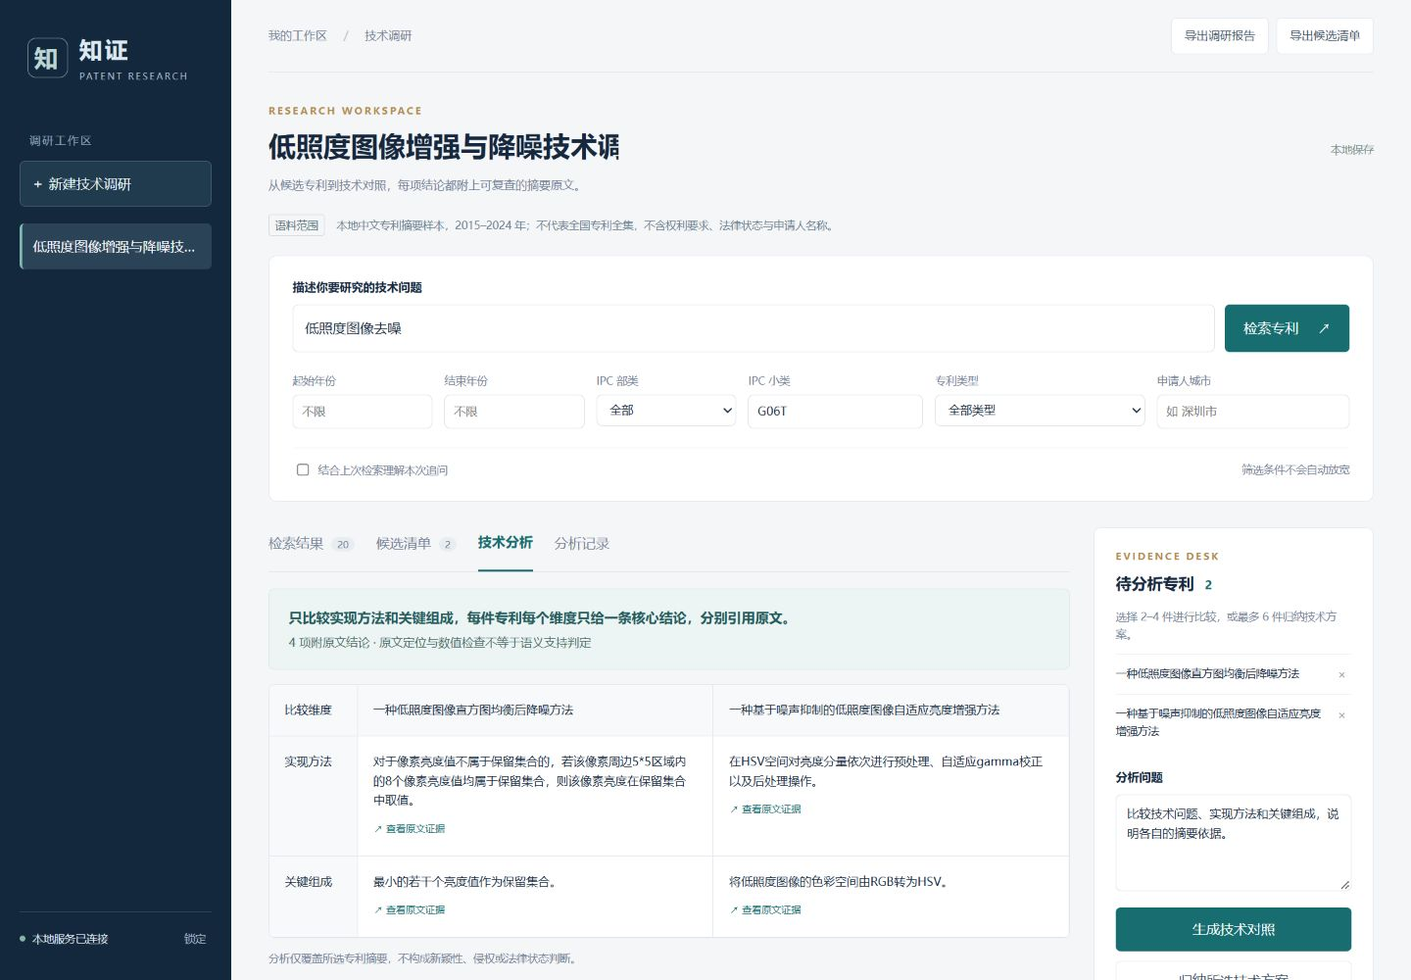
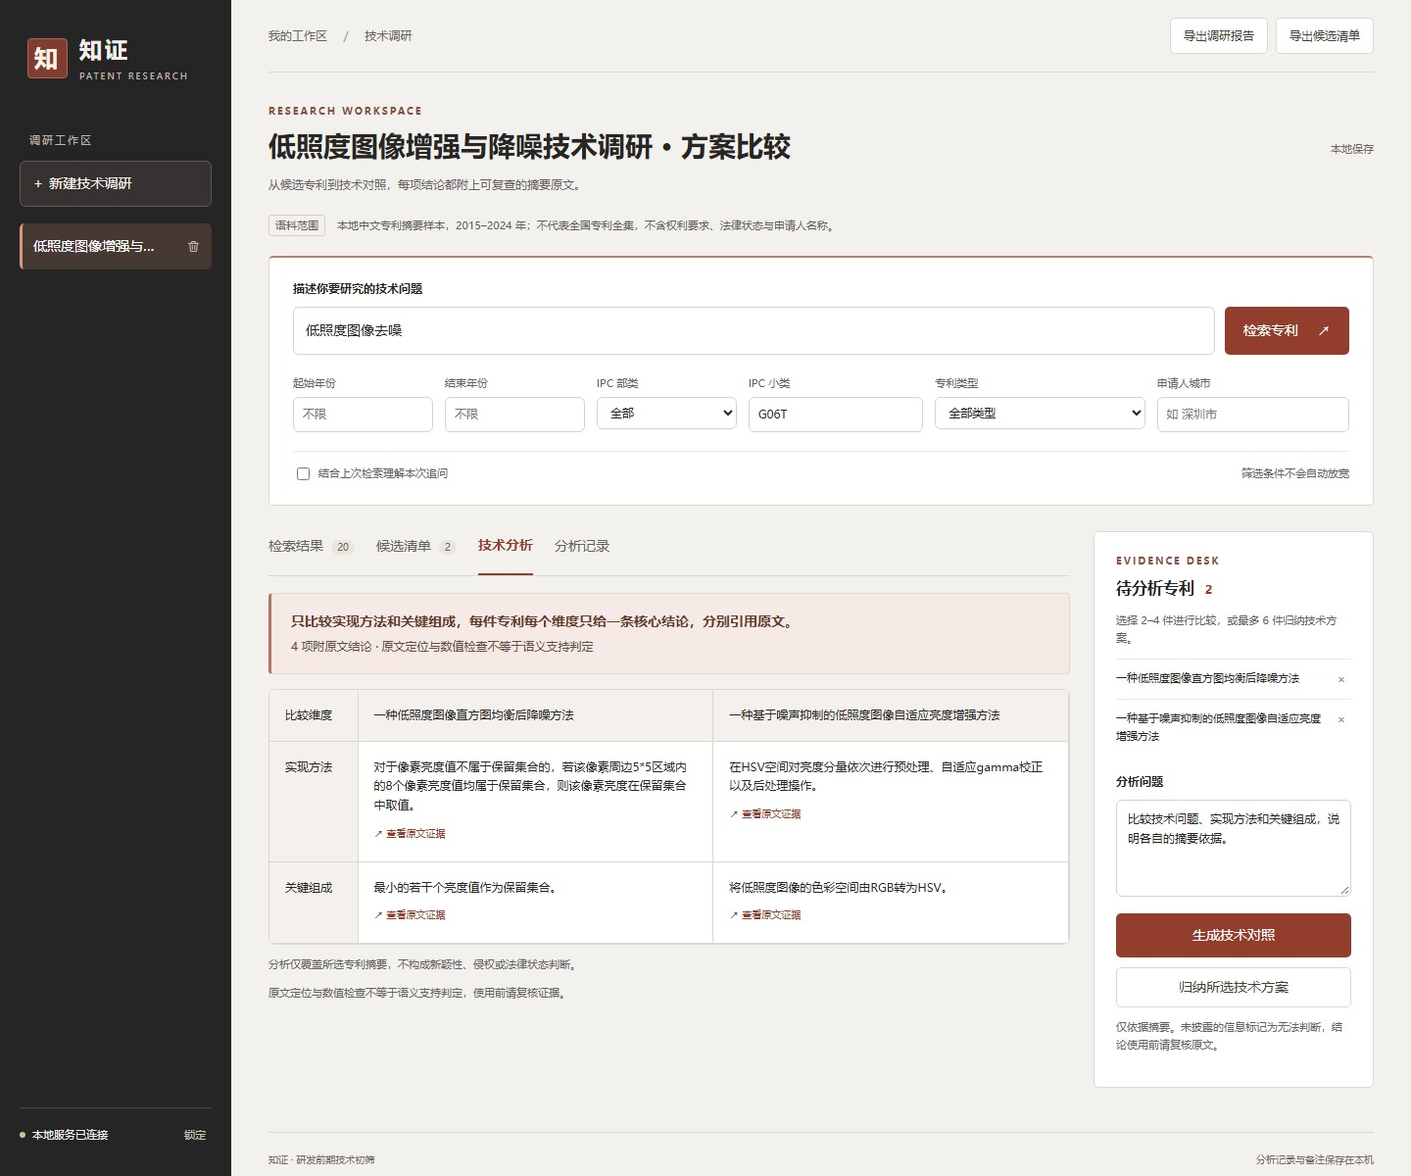
Refresh workbench colors and interface screenshot

diff --git a/app/src/main/resources/static/app.css b/app/src/main/resources/static/app.css
@@ -1,3 +1,183 @@
-:root{--bg:#f5f6f8;--paper:#fff;--ink:#17283e;--muted:#708095;--line:#e1e6ee;--navy:#14283d;--teal:#176d70;--soft:#edf5f4;--gold:#b38c4d;--danger:#b34d3e}*{box-sizing:border-box}body{margin:0;background:var(--bg);color:var(--ink);font:14px/1.65 "Microsoft YaHei UI","PingFang SC",system-ui,sans-serif}button,input,select,textarea{font:inherit}button{cursor:pointer;border:0;transition:background .15s}button:disabled{opacity:.5;cursor:wait}input,select,textarea{border:1px solid #d9e0e8;border-radius:6px;padding:9px 11px;color:var(--ink);background:white;min-width:0}input:focus,textarea:focus,select:focus{outline:2px solid #a9cecd;outline-offset:1px}button:focus-visible{outline:2px solid var(--teal);outline-offset:3px}.sidebar{position:fixed;inset:0 auto 0 0;width:236px;background:var(--navy);color:#dfe8f0;padding:32px 20px;display:flex;flex-direction:column}.brand{display:flex;align-items:center;gap:12px;font-size:23px;font-weight:600;letter-spacing:3px;margin:0 8px 48px}.brand small{display:block;font:9px/1.8 system-ui;letter-spacing:2px;color:#a4b7c7}.brand-symbol{height:41px;width:41px;border:1px solid #7c9b9f;border-radius:9px;text-align:center;line-height:39px;font-size:24px;color:#bcd5d4}.sidebar-caption{font-size:11px;color:#8ca4b8;margin:0 10px 12px;letter-spacing:2px}.new-study{border:1px solid #496173;color:#eaf4f3;background:#213b4e;padding:11px;border-radius:6px;text-align:left;margin-bottom:17px}#studies{overflow:auto;flex:1}.study-link{display:block;width:100%;text-align:left;padding:12px 11px;background:transparent;color:#b7c7d4;border-radius:5px;margin-bottom:4px;white-space:nowrap;overflow:hidden;text-overflow:ellipsis}.study-link.active{color:white;background:#2b4357;border-left:3px solid #80b8b4}.sidebar-bottom{border-top:1px solid #354a5d;padding-top:17px;font-size:11px;display:flex;align-items:center;gap:7px}.live-dot{width:6px;height:6px;background:#86b4a5;border-radius:50%}.text-button{margin-left:auto;background:none;color:#a9bdcb;font-size:11px}main{margin-left:236px;padding:0 38px;max-width:1800px}.topbar{height:74px;display:flex;justify-content:space-between;align-items:center;border-bottom:1px solid var(--line);font-size:12px;color:var(--muted);gap:12px}.slash{margin:0 13px;color:#bdc5ce}.top-actions{display:flex;gap:8px}.quiet{background:#fff;border:1px solid var(--line);padding:8px 13px;border-radius:5px;color:#40536a}.quiet:hover{background:#edf3f6}.heading{display:flex;align-items:center;justify-content:space-between;padding:32px 0 20px;gap:16px}.eyebrow{font:10px/1.5 system-ui;letter-spacing:2px;color:var(--gold);font-weight:600}#study-title{font-size:28px;font-weight:600;border:0;background:transparent;padding:5px 0;width:min(100%,780px);border-radius:0}.heading p{color:var(--muted);margin:2px 0 0;font-size:12px}.save-status{white-space:nowrap;font-size:11px;color:#789087}.scope{display:flex;gap:12px;align-items:baseline;font-size:11px;color:#687c8e;margin-bottom:20px}.scope-label{border:1px solid #cbd7dd;color:#53707a;border-radius:3px;padding:1px 6px;white-space:nowrap}.search-panel{background:var(--paper);border:1px solid var(--line);border-radius:9px;padding:22px 24px}.field-label{display:block;font-size:12px;font-weight:600;margin-bottom:8px}.search-line{display:flex;gap:10px}.search-line input{flex:1;padding:12px;font-size:14px}.primary{background:var(--teal);color:white;border-radius:5px;padding:11px 19px;font-weight:500;white-space:nowrap}.primary:hover{background:#11585b}.primary span{margin-left:15px}.filters{display:grid;grid-template-columns:.8fr .8fr .8fr 1fr 1.2fr 1.1fr;gap:12px;margin-top:20px}.filters label{font-size:11px;color:var(--muted)}.filters input,.filters select{display:block;width:100%;margin-top:5px;font-size:12px;padding:7px 9px}.search-footer{display:flex;justify-content:space-between;gap:12px;border-top:1px solid #edf0f4;margin-top:19px;padding-top:13px;font-size:11px;color:var(--muted)}.check-label{display:flex;align-items:center;gap:6px}.check-label input{accent-color:var(--teal)}.work-area{display:grid;grid-template-columns:minmax(0,1fr) 286px;gap:24px;margin-top:26px}.tabs{display:flex;gap:22px;border-bottom:1px solid var(--line);height:46px}.tabs button{background:transparent;color:var(--muted);padding:0 0 13px;white-space:nowrap}.tabs button.active{color:var(--teal);border-bottom:2px solid var(--teal);font-weight:600}.tabs span{font-size:10px;background:#e8edf1;border-radius:10px;padding:1px 6px;margin-left:4px}.tab-panel{padding-top:17px}.empty{padding:56px 25px;text-align:center;border:1px dashed #d7dfe7;border-radius:8px;background:#fafbfc;color:var(--muted)}.empty-icon{font-size:30px;color:#a6b7c1;margin-bottom:12px}.empty h3{font-size:15px;color:#536b7c;font-weight:500;margin:3px 0}.empty p{font-size:12px;margin:5px 0}.patent-card{padding:20px;background:white;border:1px solid var(--line);border-radius:7px;margin-bottom:12px}.card-top{display:flex;align-items:flex-start;gap:10px}.card-top input{accent-color:var(--teal);margin-top:6px;width:15px;height:15px;flex-shrink:0}.patent-title{font-size:15px;font-weight:600;background:none;text-align:left;color:var(--ink);padding:0;line-height:1.6}.patent-title:hover{color:var(--teal)}.card-meta{display:flex;flex-wrap:wrap;gap:6px;margin-top:8px;font-size:10px;color:var(--muted)}.tag{background:#f1f4f7;padding:2px 6px;border-radius:3px}.card-abstract{font-size:12px;line-height:1.9;color:#53677b;margin:13px 0 12px}.card-bottom{display:flex;justify-content:space-between;align-items:center;color:#8b98a6;font-size:10px}.link-button{background:none;color:var(--teal);padding:3px 0;font-size:11px}.similar{margin:0 0 12px 18px;font-size:11px;color:var(--muted)}.similar summary{cursor:pointer;padding:8px}.selection-panel{align-self:start;position:sticky;top:20px;background:#fff;border:1px solid var(--line);border-radius:8px;padding:22px}.selection-panel h2{font-size:16px;margin:7px 0}.selection-panel h2 span{font-size:12px;color:var(--teal);margin-left:6px}.muted{color:var(--muted)}.small{font-size:11px}.selection-panel>p{font-size:11px}.selection-item{font-size:11px;padding:10px 0;border-top:1px solid #edf0f3;display:flex;align-items:flex-start;gap:8px}.selection-item span{flex:1}.selection-item button{background:none;color:#8b9aa8}.selection-panel textarea{width:100%;font-size:12px;resize:vertical}.selection-panel .field-label{margin-top:18px}.wide{width:100%;margin-top:10px}.job-status{margin-top:15px;border-radius:5px;background:var(--soft);font-size:12px;color:var(--teal);padding:10px}.danger{background:#fff5f2;color:var(--danger);border:1px solid #eed6cf;padding:8px;border-radius:5px}.notice{padding:12px 16px;border:1px solid #e6d9ba;background:#fffaf0;color:#8d6a31;border-radius:5px;margin-top:16px;font-size:12px}.analysis-header{padding:17px 20px;background:var(--soft);border:1px solid #d9e7e4;border-radius:6px;margin-bottom:15px;font-size:12px;color:#456863}.analysis-header strong{display:block;font-size:14px;color:#245b5d;margin-bottom:4px}.analysis-table-wrap{overflow:auto;background:white;border:1px solid var(--line);border-radius:7px}.analysis-table{border-collapse:collapse;width:100%;font-size:12px;table-layout:fixed;min-width:560px}.analysis-table th,.analysis-table td{border-bottom:1px solid var(--line);border-right:1px solid var(--line);padding:16px;vertical-align:top;text-align:left}.analysis-table th{background:#f7f9fa;font-weight:500}.analysis-table th:first-child{width:90px}.analysis-table td p{margin:0 0 8px}.evidence-link{display:block;background:none;color:var(--teal);font-size:10px;text-align:left;padding:3px 0}.review{padding:15px;background:#fff9f0;border:1px solid #ecdfca;border-radius:6px;margin-top:15px;font-size:12px}.review summary{cursor:pointer;color:#976b36}.review p{padding-top:10px;border-top:1px solid #efdfc6}.note-input{width:100%;margin-top:10px;font-size:12px;resize:vertical}.history-item{background:white;border:1px solid var(--line);border-radius:6px;padding:17px;margin-bottom:10px}.history-item h3{font-size:13px;margin:0 0 7px;font-weight:500}.history-item p{font-size:11px;color:var(--muted);margin:0 0 7px}footer{display:flex;justify-content:space-between;border-top:1px solid var(--line);margin-top:45px;padding:20px 0 26px;font-size:10px;color:#8c9aa7}.hidden{display:none!important}dialog{border:1px solid var(--line);border-radius:10px;color:var(--ink);box-shadow:0 20px 90px #14283d25;padding:30px;max-width:720px;width:calc(100% - 40px)}dialog::backdrop{background:#152b3f70}#access-dialog{max-width:440px}dialog h2{font-size:22px;margin:12px 0}dialog p{font-size:12px;color:var(--muted)}#access-token{width:100%}.form-error{font-size:12px;color:var(--danger);margin-top:12px}.dialog-toolbar{display:flex;align-items:center;justify-content:space-between;color:var(--muted);font-size:12px;margin-bottom:24px}.original-abstract{white-space:pre-wrap;font-size:14px;line-height:2;color:#3f5368;background:#f7f9fb;border:1px solid var(--line);padding:20px;border-radius:6px}.quote{border-left:3px solid #83aaa7;padding:8px 14px;font-size:12px;background:var(--soft);margin:12px 0}.quote small{display:block;color:var(--muted);margin-top:7px}.original-abstract mark{background:#f0e4bb;color:inherit}.busy{opacity:.65;pointer-events:none}@media(min-width:1600px){main{padding:0 54px}.work-area{grid-template-columns:minmax(0,1fr) 320px}}@media(max-width:1150px){.sidebar{width:200px;padding:25px 14px}main{margin-left:200px;padding:0 24px}.work-area{grid-template-columns:minmax(0,1fr) 250px;gap:16px}.filters{grid-template-columns:repeat(3,1fr)}.top-actions .quiet{font-size:11px;padding:7px 9px}.tabs{gap:15px}}@media(max-width:850px){.sidebar{position:static;width:auto;padding:17px 20px;display:block}.brand{font-size:19px;margin:0}.brand-symbol{width:33px;height:33px;line-height:31px;font-size:20px}.brand small,.sidebar-caption,.sidebar-bottom{display:none}.new-study{position:absolute;right:20px;top:19px;padding:7px 12px;margin:0}#studies{display:flex;gap:4px;margin-top:12px}.study-link{width:auto;max-width:170px;padding:7px 10px;font-size:11px;margin:0}main{margin:0;padding:0 18px}.topbar{height:58px}.heading{padding-top:22px}#study-title{font-size:23px}.scope{font-size:10px}.search-panel{padding:17px}.search-footer{flex-direction:column;gap:8px}.work-area{grid-template-columns:1fr}.selection-panel{position:static;grid-row:1}.selection-panel>.muted{margin:4px 0}.selection-panel #selection{display:flex;flex-wrap:wrap;gap:8px}.selection-item{max-width:47%;border:0;padding:5px 0}.selection-panel textarea{min-height:60px}.topbar>span{display:none}.top-actions{margin-left:auto}.filters{gap:9px}.search-line{flex-direction:column}.search-line button{text-align:center}.tabs{justify-content:space-between;gap:8px;font-size:12px}footer{gap:10px}.heading p{font-size:11px}.save-status{display:none}}
-.content-column{min-width:0;max-width:100%}.analysis-table-wrap{max-width:100%}@media(max-width:850px){.work-area{grid-template-columns:minmax(0,1fr)}}
-.study-row{display:flex;align-items:center;gap:3px;border-radius:5px;margin-bottom:4px}.study-row.active{background:#2b4357;border-left:3px solid #80b8b4}.study-row .study-link{flex:1;min-width:0;margin:0;border:0}.study-row.active .study-link{color:#fff}.study-delete{display:flex;align-items:center;justify-content:center;flex-shrink:0;width:30px;height:32px;margin-right:4px;border-radius:4px;background:transparent;color:#a9bdcb;opacity:0}.study-delete svg{width:15px;height:15px;fill:none;stroke:currentColor;stroke-width:1.6;stroke-linecap:round;stroke-linejoin:round}.study-row:hover .study-delete,.study-row:focus-within .study-delete,.study-row.active .study-delete{opacity:1}.study-delete:hover{color:#ffcdc6;background:#653c3c}.sidebar-empty{font-size:11px;color:#9db0c1;padding:8px 10px;line-height:1.8}.delete-dialog-actions{display:flex;justify-content:flex-end;gap:10px;margin-top:24px}.delete-confirm{background:#a64134;color:white;border-radius:5px;padding:9px 18px}.delete-confirm:hover{background:#8c3329}#delete-study-dialog{max-width:470px}#delete-study-name{overflow-wrap:anywhere;color:var(--ink)}@media(max-width:850px){.study-row{flex-shrink:0;max-width:220px;margin:0}.study-row .study-link{max-width:174px}.study-delete{opacity:1;margin-right:3px}}
+:root{--bg:#f3f1ed;--paper:#ffffff;--ink:#272625;--muted:#66615c;--line:#dcd7cf;--sidebar:#252525;--accent:#933e2d;--soft:#f5eae5;--label:#875044;--danger:#a02e32}
+*{box-sizing:border-box}
+body{margin:0;background:var(--bg);color:var(--ink);font:14px/1.65 "Microsoft YaHei UI","PingFang SC",system-ui,sans-serif}
+button,input,select,textarea{font:inherit}
+button{cursor:pointer;border:0;transition:background .15s}
+button:disabled{opacity:.5;cursor:wait}
+input,select,textarea{border:1px solid #d7d1c9;border-radius:6px;padding:9px 11px;color:var(--ink);background:white;min-width:0}
+input:focus,textarea:focus,select:focus{outline:2px solid #bb6e5a;outline-offset:1px}
+button:focus-visible{outline:2px solid var(--accent);outline-offset:3px}
+.sidebar{position:fixed;inset:0 auto 0 0;width:236px;background:var(--sidebar);color:#f4efea;padding:32px 20px;display:flex;flex-direction:column}
+.brand{display:flex;align-items:center;gap:12px;font-size:23px;font-weight:600;letter-spacing:3px;margin:0 8px 48px}
+.brand small{display:block;font:9px/1.8 system-ui;letter-spacing:2px;color:#c3bab4}
+.brand-symbol{height:41px;width:41px;background:#7f3c2f;border:1px solid #aa6553;border-radius:4px;text-align:center;line-height:39px;font-size:24px;color:#fff2e9}
+.sidebar-caption{font-size:11px;color:#bfb5af;margin:0 10px 12px;letter-spacing:2px}
+.new-study{border:1px solid #645953;color:#f9f2ec;background:#363231;padding:11px;border-radius:6px;text-align:left;margin-bottom:17px}
+#studies{overflow:auto;flex:1}
+.study-link{display:block;width:100%;text-align:left;padding:12px 11px;background:transparent;color:#d2c9c2;border-radius:5px;margin-bottom:4px;white-space:nowrap;overflow:hidden;text-overflow:ellipsis}
+.study-link.active{color:white;background:#463832;border-left:3px solid #db967d}
+.sidebar-bottom{border-top:1px solid #504843;padding-top:17px;font-size:11px;display:flex;align-items:center;gap:7px}
+.live-dot{width:6px;height:6px;background:#d3bb99;border-radius:50%}
+.text-button{margin-left:auto;background:none;color:#cfc4bb;font-size:11px}
+main{margin-left:236px;padding:0 38px;max-width:1800px}
+.topbar{height:74px;display:flex;justify-content:space-between;align-items:center;border-bottom:1px solid var(--line);font-size:12px;color:var(--muted);gap:12px}
+.slash{margin:0 13px;color:#a39a91}
+.top-actions{display:flex;gap:8px}
+.quiet{background:#ffffff;border:1px solid var(--line);padding:8px 13px;border-radius:5px;color:#493d36}
+.quiet:hover{background:#f1ede7}
+.heading{display:flex;align-items:center;justify-content:space-between;padding:32px 0 20px;gap:16px}
+.heading>div{flex:1;min-width:0}
+.eyebrow{font:10px/1.5 system-ui;letter-spacing:2px;color:var(--label);font-weight:600}
+#study-title{font-size:28px;font-weight:600;border:0;background:transparent;padding:5px 0;width:min(100%,780px);border-radius:0}
+.heading p{color:var(--muted);margin:2px 0 0;font-size:12px}
+.save-status{white-space:nowrap;font-size:11px;color:#6e655e}
+.scope{display:flex;gap:12px;align-items:baseline;font-size:11px;color:#655d56;margin-bottom:20px}
+.scope-label{border:1px solid #d8cec3;color:#695b50;border-radius:3px;padding:1px 6px;white-space:nowrap}
+.search-panel{background:var(--paper);border:1px solid var(--line);border-top:2px solid #b9806e;border-radius:5px;padding:22px 24px}
+.field-label{display:block;font-size:12px;font-weight:600;margin-bottom:8px}
+.search-line{display:flex;gap:10px}
+.search-line input{flex:1;padding:12px;font-size:14px}
+.primary{background:var(--accent);color:white;border-radius:5px;padding:11px 19px;font-weight:500;white-space:nowrap}
+.primary:hover{background:#773021}
+.primary span{margin-left:15px}
+.filters{display:grid;grid-template-columns:.8fr .8fr .8fr 1fr 1.2fr 1.1fr;gap:12px;margin-top:20px}
+.filters label{font-size:11px;color:var(--muted)}
+.filters input,.filters select{display:block;width:100%;margin-top:5px;font-size:12px;padding:7px 9px}
+.search-footer{display:flex;justify-content:space-between;gap:12px;border-top:1px solid #eee9e2;margin-top:19px;padding-top:13px;font-size:11px;color:var(--muted)}
+.check-label{display:flex;align-items:center;gap:6px}
+.check-label input{accent-color:var(--accent)}
+.work-area{display:grid;grid-template-columns:minmax(0,1fr) 286px;gap:24px;margin-top:26px}
+.tabs{display:flex;gap:22px;border-bottom:1px solid var(--line);height:46px}
+.tabs button{background:transparent;color:var(--muted);padding:0 0 13px;white-space:nowrap}
+.tabs button.active{color:var(--accent);border-bottom:2px solid var(--accent);font-weight:600}
+.tabs span{font-size:10px;background:#ebe5de;border-radius:10px;padding:1px 6px;margin-left:4px}
+.tab-panel{padding-top:17px}
+.empty{padding:56px 25px;text-align:center;border:1px dashed #d9d2c9;border-radius:8px;background:#f8f6f2;color:var(--muted)}
+.empty-icon{font-size:30px;color:#948379;margin-bottom:12px}
+.empty h3{font-size:15px;color:#5d4e45;font-weight:500;margin:3px 0}
+.empty p{font-size:12px;margin:5px 0}
+.patent-card{padding:20px;background:white;border:1px solid var(--line);border-radius:7px;margin-bottom:12px}
+.card-top{display:flex;align-items:flex-start;gap:10px}
+.card-top input{accent-color:var(--accent);margin-top:6px;width:15px;height:15px;flex-shrink:0}
+.patent-title{font-size:15px;font-weight:600;background:none;text-align:left;color:var(--ink);padding:0;line-height:1.6}
+.patent-title:hover{color:var(--accent)}
+.card-meta{display:flex;flex-wrap:wrap;gap:6px;margin-top:8px;font-size:10px;color:var(--muted)}
+.tag{background:#f3efe9;padding:2px 6px;border-radius:3px}
+.card-abstract{font-size:12px;line-height:1.9;color:#564e48;margin:13px 0 12px}
+.card-bottom{display:flex;justify-content:space-between;align-items:center;color:#74695f;font-size:10px}
+.link-button{background:none;color:var(--accent);padding:3px 0;font-size:11px}
+.similar{margin:0 0 12px 18px;font-size:11px;color:var(--muted)}
+.similar summary{cursor:pointer;padding:8px}
+.selection-panel{align-self:start;position:sticky;top:20px;background:#ffffff;border:1px solid var(--line);border-radius:5px;padding:22px}
+.selection-panel h2{font-size:16px;margin:7px 0}
+.selection-panel h2 span{font-size:12px;color:var(--accent);margin-left:6px}
+.muted{color:var(--muted)}
+.small{font-size:11px}
+.selection-panel>p{font-size:11px}
+.selection-item{font-size:11px;padding:10px 0;border-top:1px solid #eee9e3;display:flex;align-items:flex-start;gap:8px}
+.selection-item span{flex:1}
+.selection-item button{background:none;color:#79695f}
+.selection-panel textarea{width:100%;font-size:12px;resize:vertical}
+.selection-panel .field-label{margin-top:18px}
+.wide{width:100%;margin-top:10px}
+.job-status{margin-top:15px;border-radius:5px;background:var(--soft);font-size:12px;color:var(--accent);padding:10px}
+.danger{background:#fff3f2;color:var(--danger);border:1px solid #efd0ce;padding:8px;border-radius:5px}
+.notice{padding:12px 16px;border:1px solid #e8d8b5;background:#fff9ed;color:#745020;border-radius:5px;margin-top:16px;font-size:12px}
+.analysis-header{padding:17px 20px;background:var(--soft);border:1px solid #e8d6ce;border-left:3px solid #b67562;border-radius:4px;margin-bottom:15px;font-size:12px;color:#634b41}
+.analysis-header strong{display:block;font-size:14px;color:#673a2d;margin-bottom:4px}
+.analysis-table-wrap{overflow:auto;background:white;border:1px solid var(--line);border-radius:7px}
+.analysis-table{border-collapse:collapse;width:100%;font-size:12px;table-layout:fixed;min-width:560px}
+.analysis-table th,.analysis-table td{border-bottom:1px solid var(--line);border-right:1px solid var(--line);padding:16px;vertical-align:top;text-align:left}
+.analysis-table th{background:#f4f0eb;font-weight:500}
+.analysis-table th:first-child{width:90px}
+.analysis-table td p{margin:0 0 8px}
+.evidence-link{display:block;background:none;color:var(--accent);font-size:10px;text-align:left;padding:3px 0}
+.review{padding:15px;background:#fff8eb;border:1px solid #eadcc1;border-radius:6px;margin-top:15px;font-size:12px}
+.review summary{cursor:pointer;color:#795423}
+.review p{padding-top:10px;border-top:1px solid #eadac1}
+.note-input{width:100%;margin-top:10px;font-size:12px;resize:vertical}
+.history-item{background:white;border:1px solid var(--line);border-radius:6px;padding:17px;margin-bottom:10px}
+.history-item h3{font-size:13px;margin:0 0 7px;font-weight:500}
+.history-item p{font-size:11px;color:var(--muted);margin:0 0 7px}
+footer{display:flex;justify-content:space-between;border-top:1px solid var(--line);margin-top:45px;padding:20px 0 26px;font-size:10px;color:#746a61}
+.hidden{display:none!important}
+dialog{border:1px solid var(--line);border-radius:10px;color:var(--ink);box-shadow:0 20px 90px #25201c35;padding:30px;max-width:720px;width:calc(100% - 40px)}
+dialog::backdrop{background:#27211e83}
+#access-dialog{max-width:440px}
+dialog h2{font-size:22px;margin:12px 0}
+dialog p{font-size:12px;color:var(--muted)}
+#access-token{width:100%}
+.form-error{font-size:12px;color:var(--danger);margin-top:12px}
+.dialog-toolbar{display:flex;align-items:center;justify-content:space-between;color:var(--muted);font-size:12px;margin-bottom:24px}
+.original-abstract{white-space:pre-wrap;font-size:14px;line-height:2;color:#4c4139;background:#f6f2ec;border:1px solid var(--line);padding:20px;border-radius:6px}
+.quote{border-left:3px solid #b67562;padding:8px 14px;font-size:12px;background:var(--soft);margin:12px 0}
+.quote small{display:block;color:var(--muted);margin-top:7px}
+.original-abstract mark{background:#f5dfad;color:inherit}
+.busy{opacity:.65;pointer-events:none}
+@media(min-width:1600px){
+  main{padding:0 54px}
+  .work-area{grid-template-columns:minmax(0,1fr) 320px}
+}
+@media(max-width:1150px){
+  .sidebar{width:200px;padding:25px 14px}
+  main{margin-left:200px;padding:0 24px}
+  .work-area{grid-template-columns:minmax(0,1fr) 250px;gap:16px}
+  .filters{grid-template-columns:repeat(3,1fr)}
+  .top-actions .quiet{font-size:11px;padding:7px 9px}
+  .tabs{gap:15px}
+}
+@media(max-width:850px){
+  .sidebar{position:static;width:auto;padding:17px 20px;display:block}
+  .brand{font-size:19px;margin:0}
+  .brand-symbol{width:33px;height:33px;line-height:31px;font-size:20px}
+  .brand small,.sidebar-caption,.sidebar-bottom{display:none}
+  .new-study{position:absolute;right:20px;top:19px;padding:7px 12px;margin:0}
+  #studies{display:flex;gap:4px;margin-top:12px}
+  .study-link{width:auto;max-width:170px;padding:7px 10px;font-size:11px;margin:0}
+  main{margin:0;padding:0 18px}
+  .topbar{height:58px}
+  .heading{padding-top:22px}
+  #study-title{font-size:23px}
+  .scope{font-size:10px}
+  .search-panel{padding:17px}
+  .search-footer{flex-direction:column;gap:8px}
+  .work-area{grid-template-columns:1fr}
+  .selection-panel{position:static;grid-row:1}
+  .selection-panel>.muted{margin:4px 0}
+  .selection-panel #selection{display:flex;flex-wrap:wrap;gap:8px}
+  .selection-item{max-width:47%;border:0;padding:5px 0}
+  .selection-panel textarea{min-height:60px}
+  .topbar>span{display:none}
+  .top-actions{margin-left:auto}
+  .filters{gap:9px}
+  .search-line{flex-direction:column}
+  .search-line button{text-align:center}
+  .tabs{justify-content:space-between;gap:8px;font-size:12px}
+  footer{gap:10px}
+  .heading p{font-size:11px}
+  .save-status{display:none}
+}
+.content-column{min-width:0;max-width:100%}
+.analysis-table-wrap{max-width:100%}
+@media(max-width:850px){
+  .work-area{grid-template-columns:minmax(0,1fr)}
+}
+.study-row{display:flex;align-items:center;gap:3px;border-radius:5px;margin-bottom:4px}
+.study-row.active{background:#463832;border-left:3px solid #db967d}
+.study-row .study-link{flex:1;min-width:0;margin:0;border:0}
+.study-row.active .study-link{color:#ffffff}
+.study-delete{display:flex;align-items:center;justify-content:center;flex-shrink:0;width:30px;height:32px;margin-right:4px;border-radius:4px;background:transparent;color:#cfc4bb;opacity:0}
+.study-delete svg{width:15px;height:15px;fill:none;stroke:currentColor;stroke-width:1.6;stroke-linecap:round;stroke-linejoin:round}
+.study-row:hover .study-delete,.study-row:focus-within .study-delete,.study-row.active .study-delete{opacity:1}
+.study-delete:hover{color:#ffd9d6;background:#673a3c}
+.sidebar-empty{font-size:11px;color:#c3b8ae;padding:8px 10px;line-height:1.8}
+.delete-dialog-actions{display:flex;justify-content:flex-end;gap:10px;margin-top:24px}
+.delete-confirm{background:#a02e32;color:white;border-radius:5px;padding:9px 18px}
+.delete-confirm:hover{background:#822229}
+#delete-study-dialog{max-width:470px}
+#delete-study-name{overflow-wrap:anywhere;color:var(--ink)}
+@media(max-width:850px){
+  .study-row{flex-shrink:0;max-width:220px;margin:0}
+  .study-row .study-link{max-width:174px}
+  .study-delete{opacity:1;margin-right:3px}
+}
